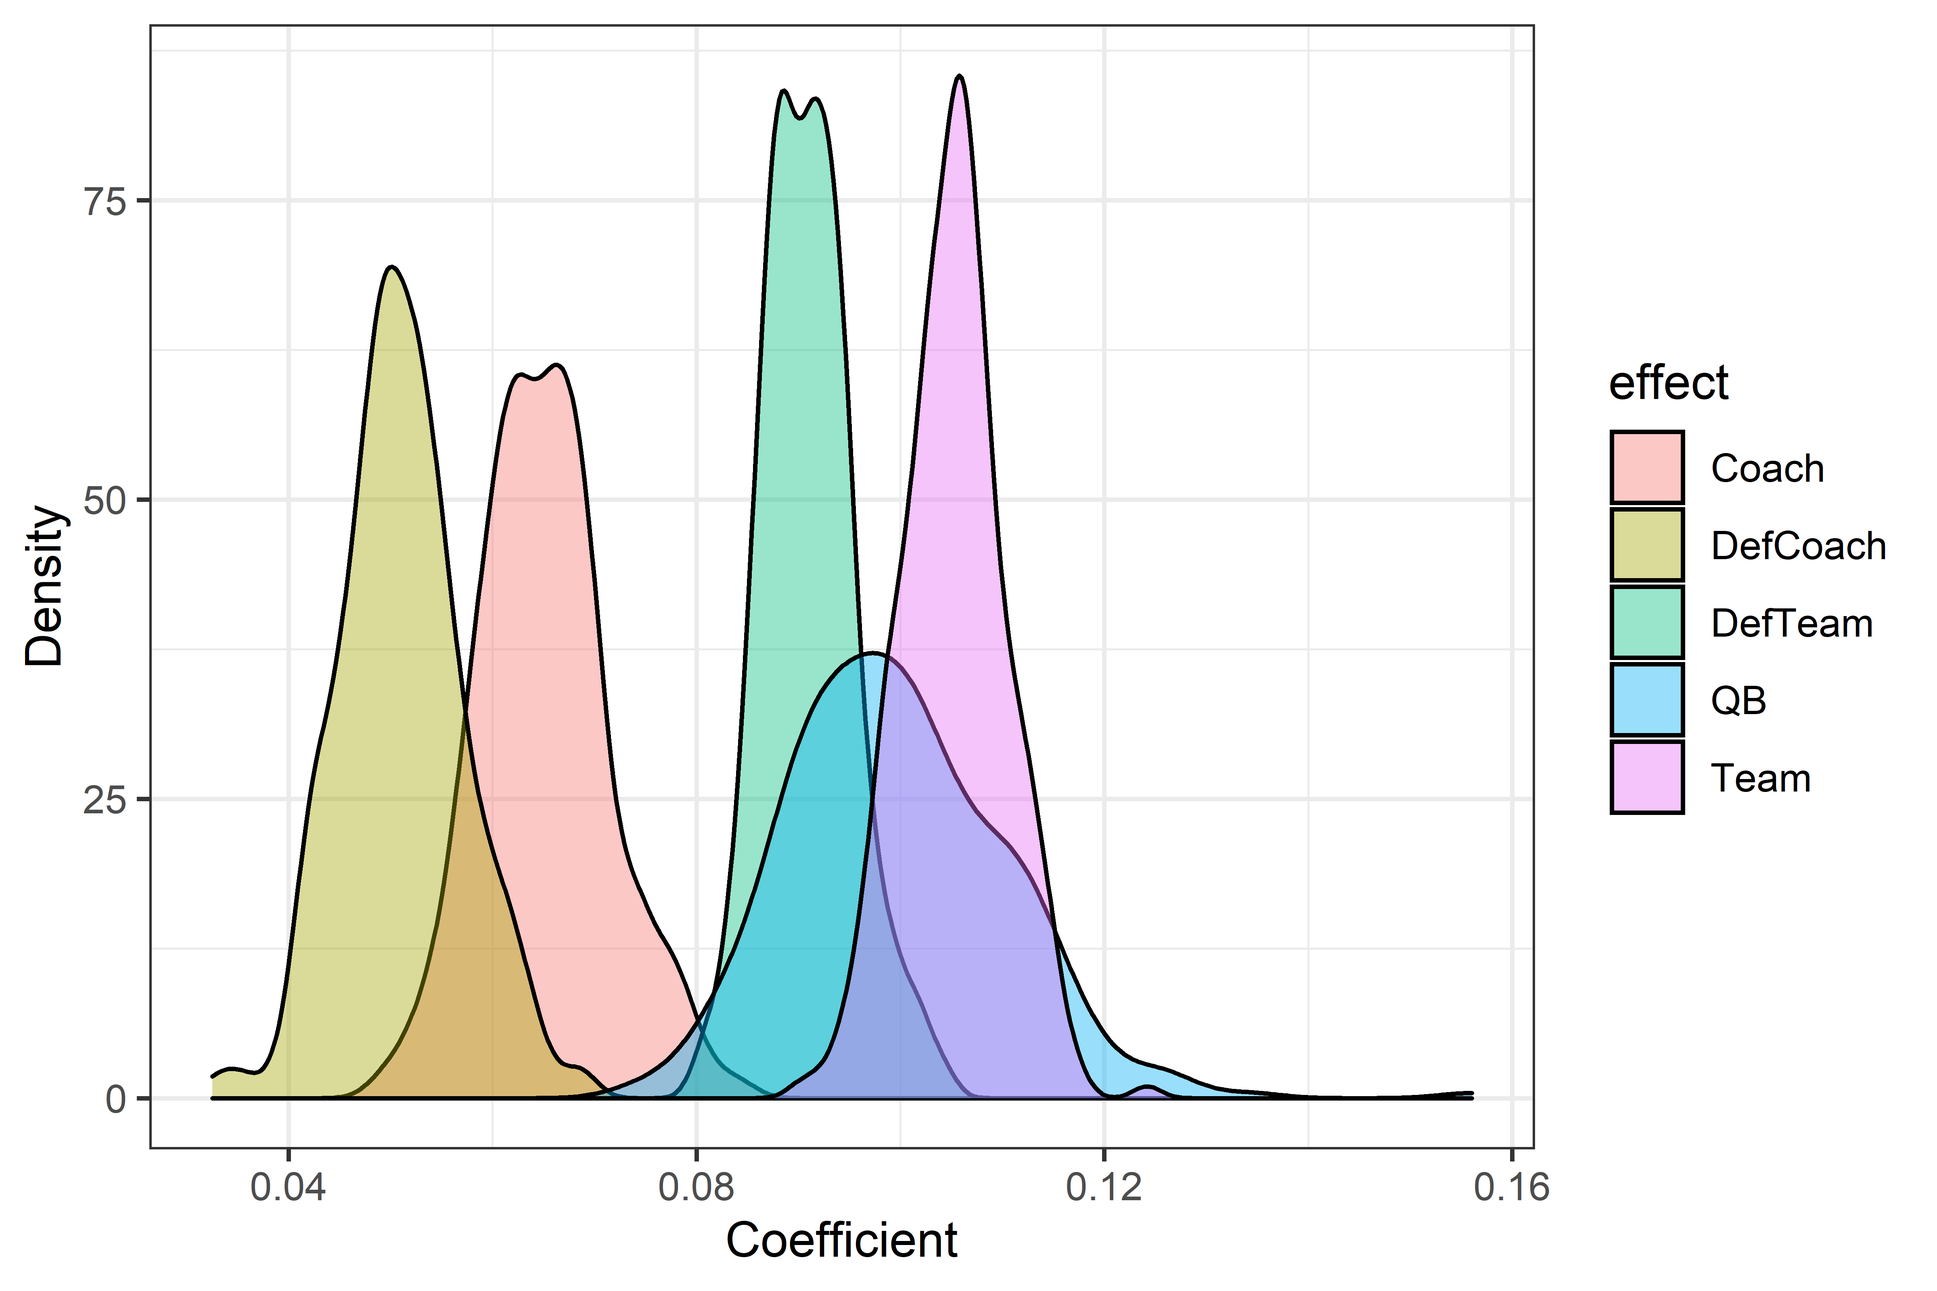
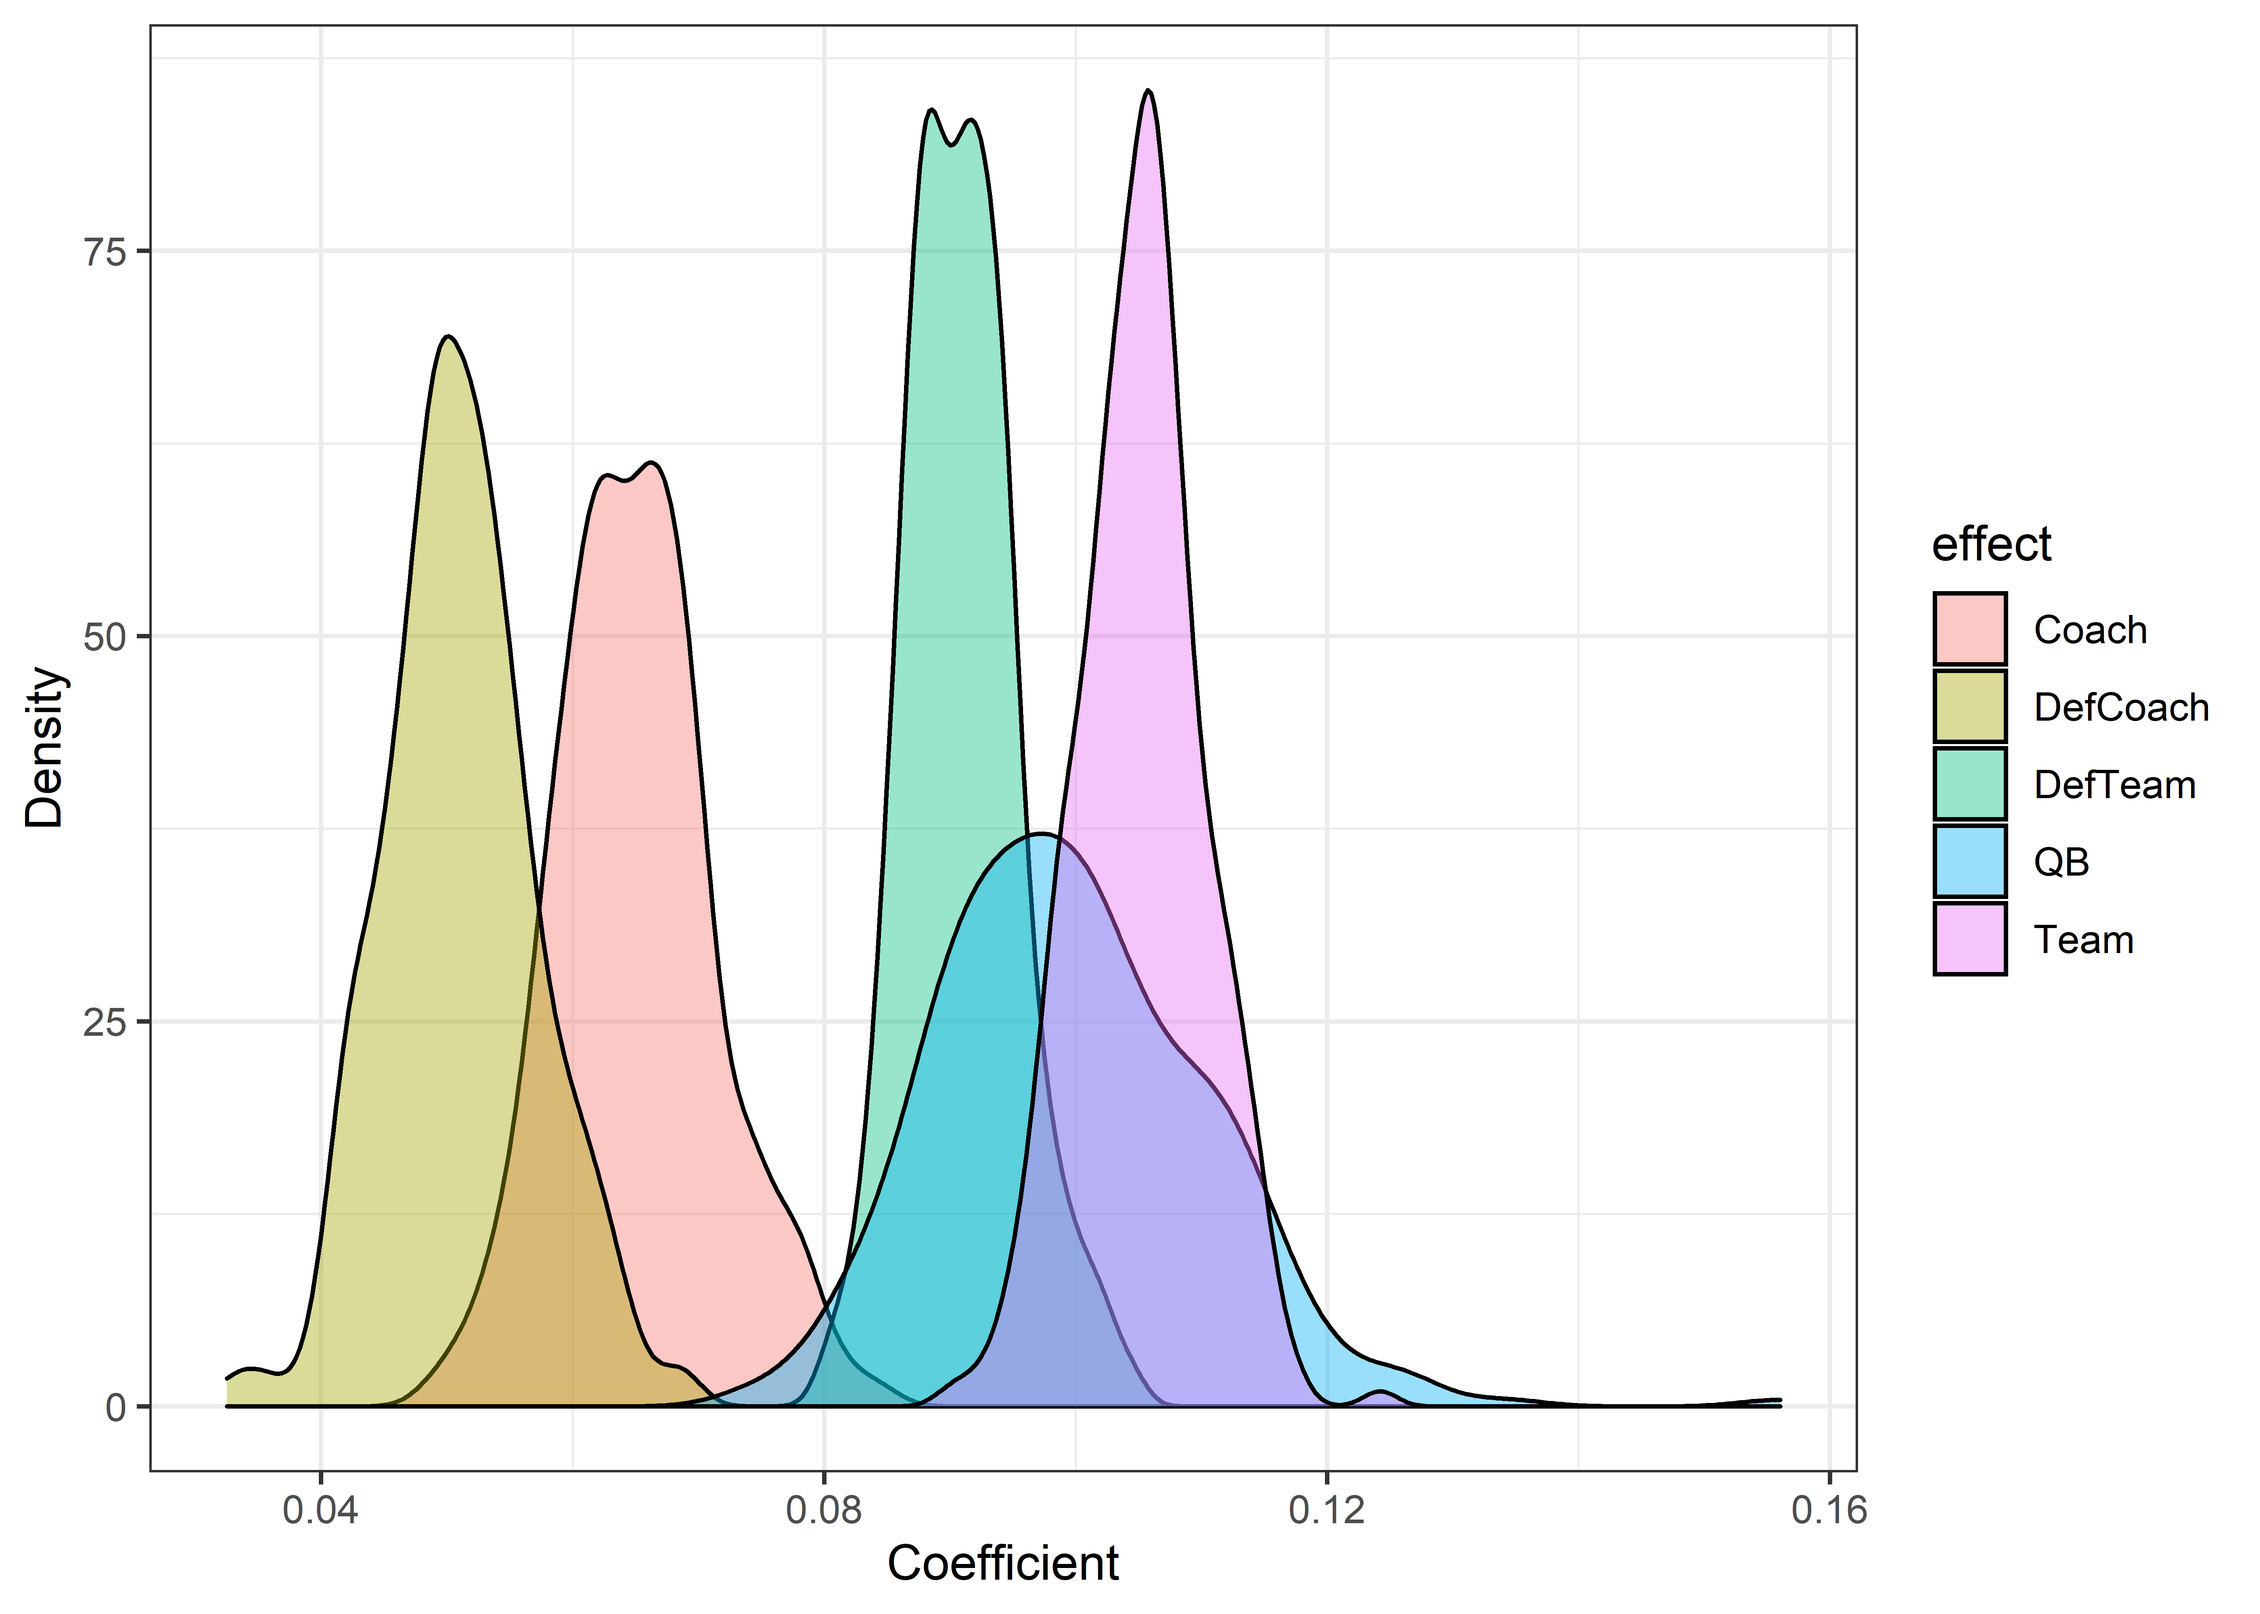
index

diff --git a/content/post/post-tutorial-R-Markdown/index.html b/content/post/post-tutorial-R-Markdown/index.html
@@ -323,7 +323,7 @@ ggplot(plot2, aes(x = coef, fill = effect)) +
   geom_density(alpha = .4) +
   theme_bw() +
   labs(x = &quot;Coefficient&quot;, y = &quot;Density&quot;)</code></pre>
-<p><img src="index_files/figure-html/unnamed-chunk-3-1.png" width="2400" /></p>
+<p><img src="index_files/figure-html/unnamed-chunk-3-1.png" width="2800" /></p>
 </div>
 <div id="insert-images" class="section level1">
 <h1>Insert images</h1>
